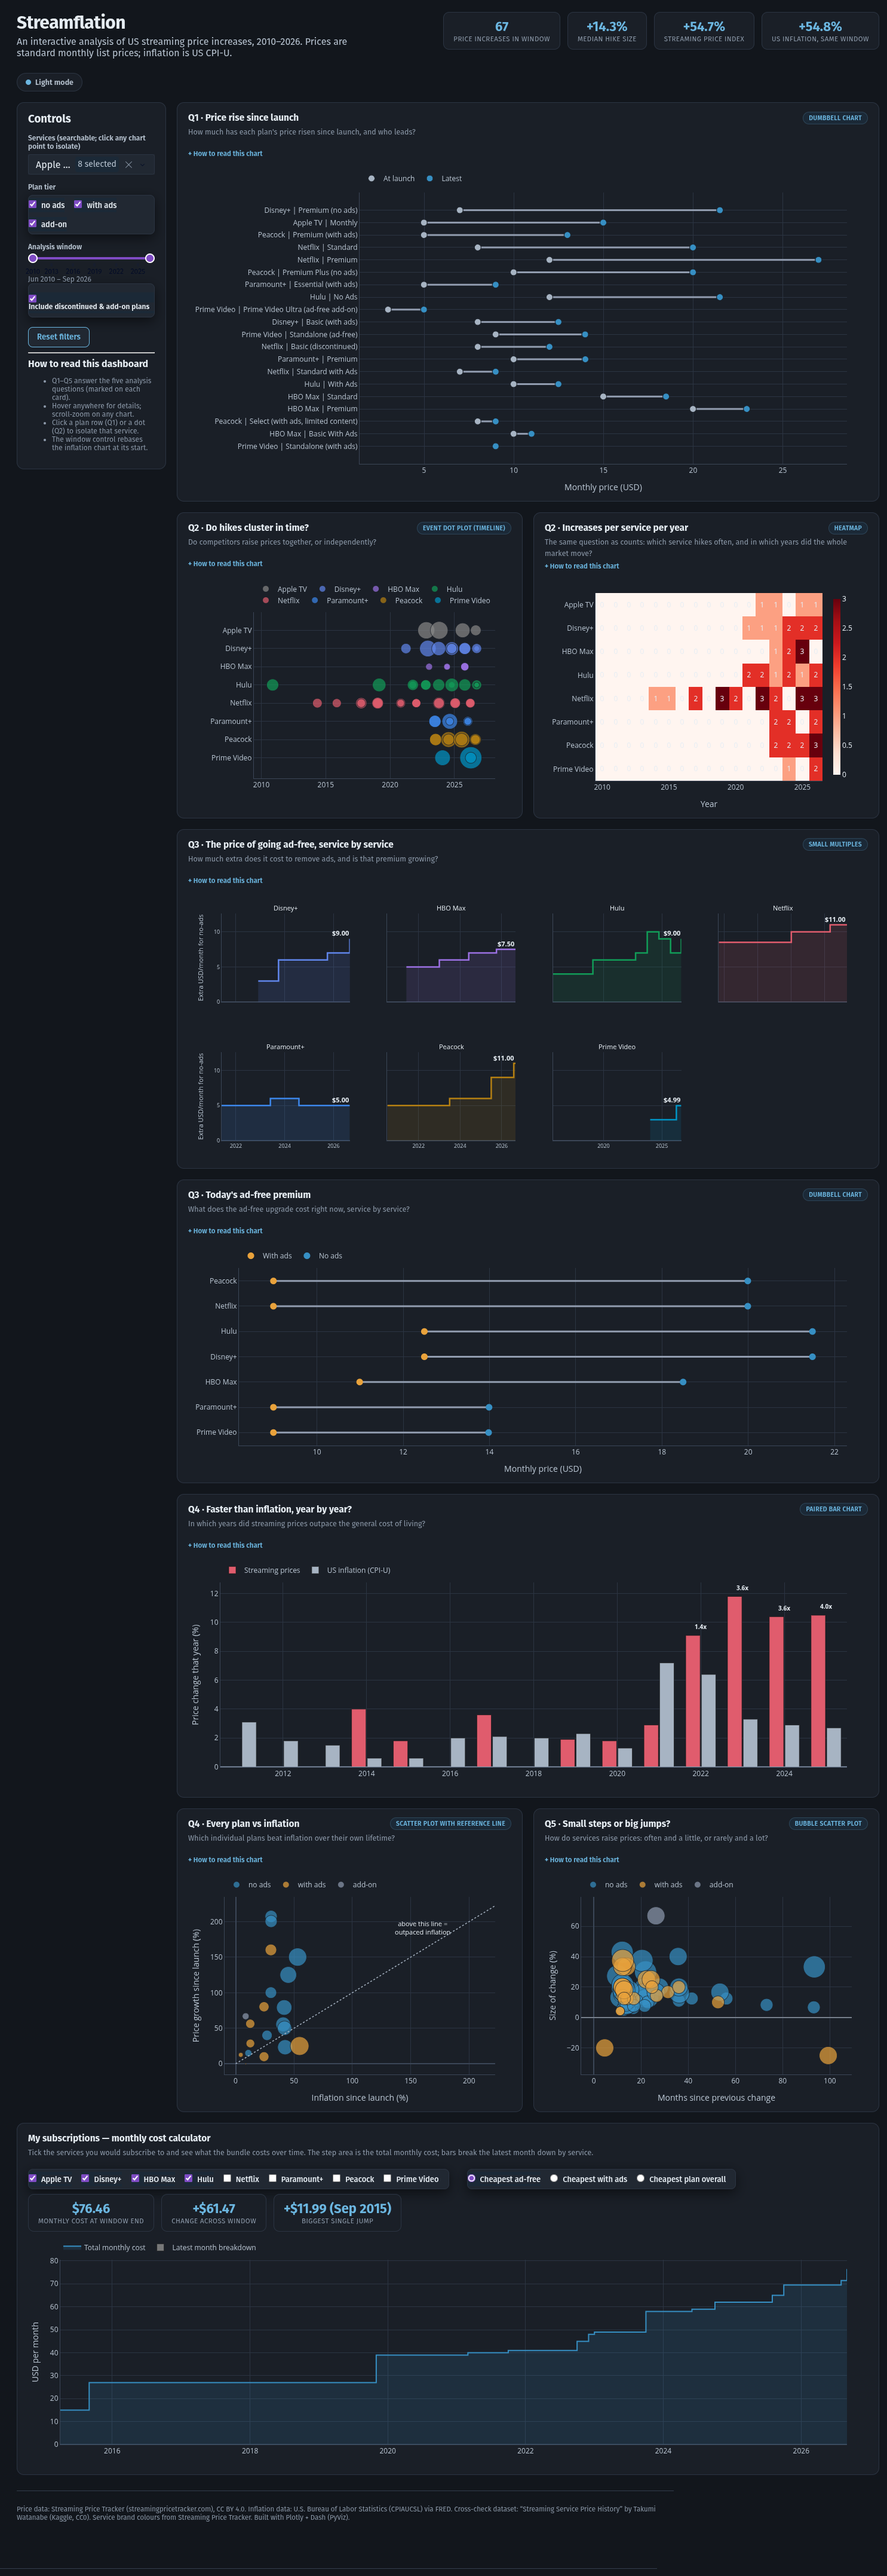
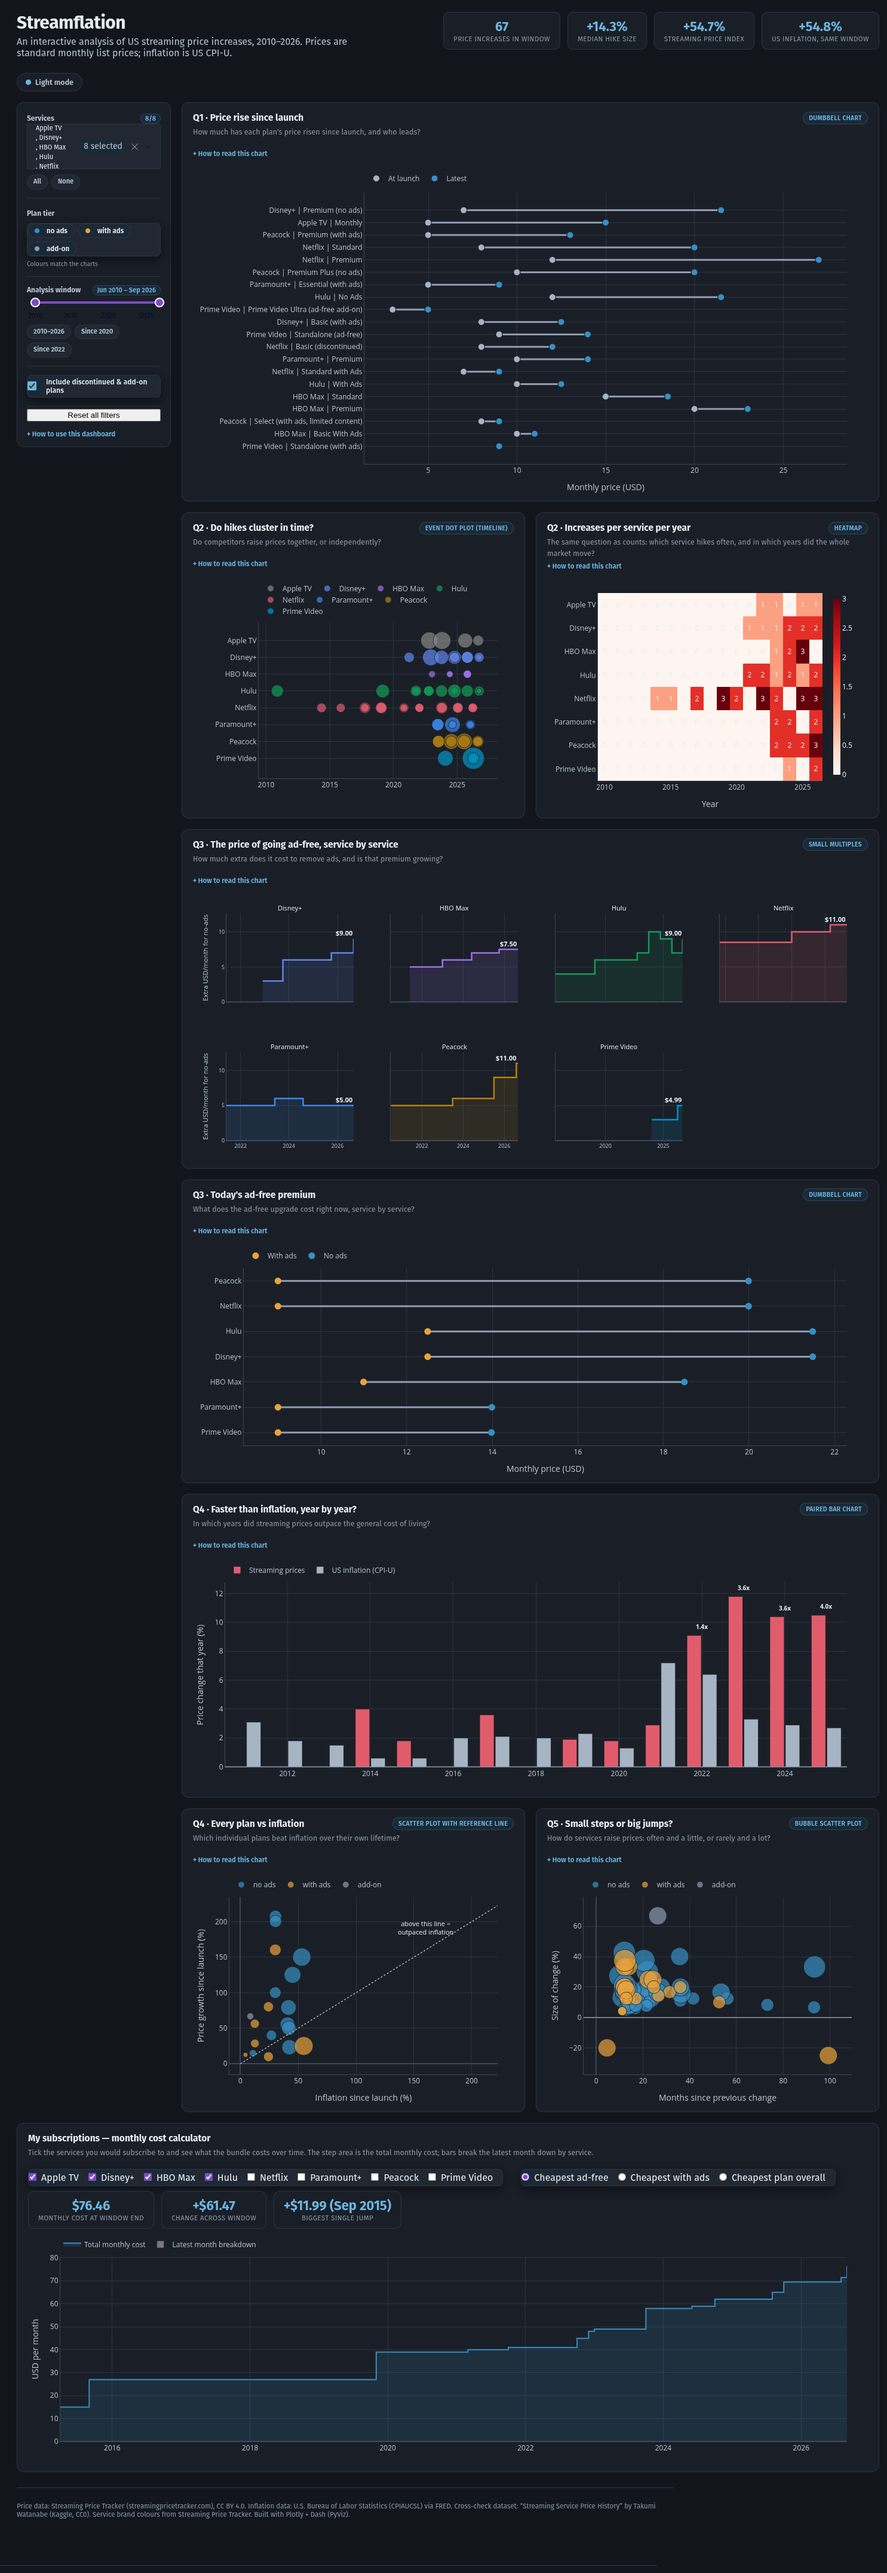
Redesign the control rail
Group the controls into separated fields with real labels, and add the
affordances a filter panel needs:

- live counters: services selected (8/8) and the current window, so state
  is readable without inspecting each widget
- quick actions: All / None for services, and 2010-2026 / Since 2020 /
  Since 2022 window presets, because dragging a 196-month slider to a year
  was fiddly
- tier filters render as chips carrying the same three colours used in the
  charts, so the control explains the encoding instead of duplicating text
- the always-visible help list is now a collapsible summary, reclaiming
  about 100px of rail height
- rail is sticky with its own scroll and the multi-select wraps inside it
  (previously the 8 selected pills overflowed the panel edge)
- slider only labels every 5th year to cut clutter

Also fixed two misleading empty states: the calculator showed the full
basket total when no service was ticked, and the inflation chart drew a
blank panel when no tier was selected. Both now show a message.

diff --git a/app/assets/style.css b/app/assets/style.css
@@ -76,28 +76,95 @@ body {
 /* layout: control rail + question grid */
 .layout { display: flex; gap: 18px; align-items: flex-start; }
 .rail {
-  flex: 0 0 250px; position: sticky; top: 12px;
+  flex: 0 0 258px; position: sticky; top: 12px;
   background: var(--surface); border: 1px solid var(--border);
-  border-radius: 12px; padding: 16px 18px;
+  border-radius: 12px; padding: 4px 16px 14px;
+  max-height: calc(100vh - 24px); overflow-y: auto;
 }
-.rail h3 { margin: 0 0 12px; }
-.rail label {
-  display: block; font-size: 12px; font-weight: 600;
-  margin: 14px 0 6px; color: var(--text-dim);
+.field { padding: 14px 0; border-bottom: 1px solid var(--border); }
+.field:last-of-type { border-bottom: none; padding-bottom: 4px; }
+.field-head {
+  display: flex; align-items: baseline; justify-content: space-between; gap: 8px;
 }
-.rail .Select-control { border-radius: 8px; }
-.tier-checks label {
-  margin: 4px 12px 4px 0; font-size: 13px; font-weight: 500;
+.field label { font-size: 12px; font-weight: 650; color: var(--text-dim); }
+.field-count {
+  font-size: 11px; font-weight: 600; color: var(--accent);
+  background: var(--accent-soft); border: 1px solid var(--accent-border);
+  border-radius: 999px; padding: 1px 7px; white-space: nowrap;
 }
-.muted { color: var(--text-muted); font-size: 12px; }
-.muted ul { padding-left: 16px; margin: 6px 0; }
-.btn {
-  margin-top: 16px; padding: 8px 14px;
-  border: 1px solid var(--accent); border-radius: 8px;
-  background: var(--btn-bg); color: var(--accent);
-  cursor: pointer; font-weight: 600; font-family: inherit;
+.field-count:empty { display: none; }
+.field-hint { font-size: 10.5px; color: var(--text-muted); margin-top: 6px; }
+
+/* Dash 4 multi-select must wrap inside the rail instead of overflowing it */
+.rail .dash-dropdown,
+.rail .dash-dropdown-wrapper,
+.rail .dash-dropdown-grid-container { max-width: 100%; min-width: 0; }
+.rail .dash-dropdown-value {
+  display: flex; flex-wrap: wrap; gap: 3px;
+  max-height: 74px; overflow-y: auto; min-width: 0;
 }
-.btn:hover { background: var(--accent); color: var(--surface); }
+.rail .dash-dropdown-value-item {
+  font-size: 11px; padding: 0 2px; max-width: 100%;
+  overflow: hidden; text-overflow: ellipsis; white-space: nowrap;
+}
+
+/* quick-action chips */
+.quick { display: flex; flex-wrap: wrap; gap: 6px; margin-top: 9px; }
+.chip-btn {
+  font-family: inherit; font-size: 11px; font-weight: 600;
+  color: var(--text-dim); background: var(--surface-2);
+  border: 1px solid var(--border); border-radius: 999px;
+  padding: 3px 10px; cursor: pointer; line-height: 1.5;
+}
+.chip-btn:hover { border-color: var(--accent); color: var(--accent); }
+.chip-btn:active { transform: translateY(1px); }
+
+/* tier chips: same colours as the charts, with a visible selected state */
+.tier-chips { display: flex; flex-wrap: wrap; gap: 6px; margin-top: 8px; }
+.tier-chips label {
+  display: inline-flex; align-items: center; gap: 6px;
+  font-size: 11.5px; font-weight: 600; color: var(--text-dim);
+  background: var(--surface-2); border: 1px solid var(--border);
+  border-radius: 999px; padding: 4px 11px; cursor: pointer;
+  user-select: none; margin: 0; transition: border-color 0.15s, color 0.15s;
+}
+.tier-chips input { display: none; }
+.tier-chips label::before {
+  content: ""; width: 8px; height: 8px; border-radius: 50%;
+  border: 2px solid var(--text-muted); box-sizing: border-box;
+}
+.tier-chips label:has(input:checked) {
+  color: var(--text); border-color: var(--accent);
+  background: var(--accent-soft);
+}
+.tier-chips label:nth-child(1):has(input:checked)::before { background: #368FC3; border-color: #368FC3; }
+.tier-chips label:nth-child(2):has(input:checked)::before { background: #E9A23B; border-color: #E9A23B; }
+.tier-chips label:nth-child(3):has(input:checked)::before { background: #8D99AE; border-color: #8D99AE; }
+
+/* plain checkbox row */
+.switch-row label {
+  display: flex; align-items: center; gap: 8px;
+  font-size: 12px; font-weight: 500; color: var(--text-dim); cursor: pointer;
+}
+.switch-row input { accent-color: var(--accent); width: 15px; height: 15px; cursor: pointer; }
+
+.btn-wide { width: 100%; margin-top: 4px; }
+
+.rail-help { margin-top: 14px; }
+.rail-help summary {
+  cursor: pointer; font-size: 11.5px; font-weight: 600;
+  color: var(--accent); list-style: none; user-select: none;
+}
+.rail-help summary::-webkit-details-marker { display: none; }
+.rail-help summary::before { content: "+ "; font-weight: 700; }
+.rail-help[open] summary::before { content: "− "; }
+.rail-help ul { padding-left: 15px; margin: 8px 0 0; }
+.rail-help li {
+  font-size: 11.5px; color: var(--text-muted); line-height: 1.5; margin-bottom: 4px;
+}
+
+/* window slider */
+.window-slider { margin: 6px 6px 0; }
 
 /* question grid */
 .grid {

diff --git a/app/app.py b/app/app.py
@@ -12,9 +12,9 @@ import dash
 from dash import Input, Output, State, callback, dcc, html, no_update
 import pandas as pd
 
-from figures import (TIER_COLORS, apply_theme, fig_calculator, fig_dumbbell, fig_gap_dumbbell,
-                     fig_gap_lines, fig_growth_vs_inflation, fig_heatmap, fig_hike_scatter,
-                     fig_timeline, fig_yoy_inflation, load_data)
+from figures import (TIER_COLORS, apply_theme, empty_fig, fig_calculator, fig_dumbbell,
+                     fig_gap_dumbbell, fig_gap_lines, fig_growth_vs_inflation, fig_heatmap,
+                     fig_hike_scatter, fig_timeline, fig_yoy_inflation, load_data)
 
 DATA = load_data()
 MONTHS = pd.date_range("2010-06-01", "2026-09-01", freq="MS")
@@ -75,36 +75,71 @@ app.layout = html.Div(className="page", children=[
     html.Div(className="layout", children=[
         # ---------------- control rail ----------------
         html.Div(className="rail", children=[
-            html.H3("Controls"),
-            html.Label("Services (searchable; click any chart point to isolate)"),
-            dcc.Dropdown(id="services", options=ALL_SERVICES, value=ALL_SERVICES,
-                         multi=True, placeholder="All services"),
-            html.Label("Plan tier"),
-            dcc.Checklist(id="tiers",
-                          options=[{"label": f"  {t}", "value": t} for t in ALL_TIERS],
-                          value=ALL_TIERS, inline=True,
-                          className="tier-checks"),
-            html.Label("Analysis window"),
-            dcc.RangeSlider(id="window", min=0, max=len(MONTHS) - 1, step=1,
-                            value=[0, len(MONTHS) - 1],
-                            marks={i: str(y) for i, y in
-                                   enumerate(MONTHS.year) if y % 3 == 0 and (i == 0 or y != MONTHS.year[i - 1])},
-                            tooltip={"placement": "bottom", "always_visible": False}),
-            html.Div(id="window-label", className="muted"),
-            dcc.Checklist(id="advanced",
-                          options=[{"label": " Include discontinued & add-on plans",
-                                    "value": "y"}],
-                          value=["y"]),
-            html.Button("Reset filters", id="reset", n_clicks=0, className="btn"),
-            html.Hr(),
-            html.Div([
-                html.Strong("How to read this dashboard"),
-                html.Ul([
-                    html.Li("Q1–Q5 answer the five analysis questions (marked on each card)."),
-                    html.Li("Hover anywhere for details; scroll-zoom on any chart."),
-                    html.Li("Click a plan row (Q1) or a dot (Q2) to isolate that service."),
-                    html.Li("The window control rebases the inflation chart at its start."),
-                ], className="muted"),
+            # ---- services -------------------------------------------------
+            html.Div(className="field", children=[
+                html.Div(className="field-head", children=[
+                    html.Label("Services", htmlFor="services"),
+                    html.Span(id="services-count", className="field-count"),
+                ]),
+                dcc.Dropdown(id="services", options=ALL_SERVICES, value=ALL_SERVICES,
+                             multi=True, placeholder="All services"),
+                html.Div(className="quick", children=[
+                    html.Button("All", id="svc-all", n_clicks=0, className="chip-btn"),
+                    html.Button("None", id="svc-none", n_clicks=0, className="chip-btn"),
+                ]),
+            ]),
+
+            # ---- tier -----------------------------------------------------
+            html.Div(className="field", children=[
+                html.Label("Plan tier"),
+                dcc.Checklist(
+                    id="tiers",
+                    options=[{"label": t, "value": t} for t in ALL_TIERS],
+                    value=ALL_TIERS, className="tier-chips"),
+                html.Div("Colours match the charts", className="field-hint"),
+            ]),
+
+            # ---- window ---------------------------------------------------
+            html.Div(className="field", children=[
+                html.Div(className="field-head", children=[
+                    html.Label("Analysis window"),
+                    html.Span(id="window-label", className="field-count"),
+                ]),
+                dcc.RangeSlider(
+                    id="window", min=0, max=len(MONTHS) - 1, step=1,
+                    value=[0, len(MONTHS) - 1],
+                    marks={i: str(y) for i, y in enumerate(MONTHS.year)
+                           if y % 5 == 0 and (i == 0 or y != MONTHS.year[i - 1])},
+                    tooltip={"placement": "bottom", "always_visible": False},
+                    className="window-slider"),
+                html.Div(className="quick", children=[
+                    html.Button("2010–2026", id="win-all", n_clicks=0, className="chip-btn"),
+                    html.Button("Since 2020", id="win-2020", n_clicks=0, className="chip-btn"),
+                    html.Button("Since 2022", id="win-2022", n_clicks=0, className="chip-btn"),
+                ]),
+            ]),
+
+            # ---- options --------------------------------------------------
+            html.Div(className="field", children=[
+                dcc.Checklist(
+                    id="advanced",
+                    options=[{"label": "Include discontinued & add-on plans",
+                              "value": "y"}],
+                    value=["y"], className="switch-row"),
+            ]),
+
+            html.Button("Reset all filters", id="reset", n_clicks=0, className="btn btn-wide"),
+
+            html.Div(className="rail-help", children=[
+                html.Details(children=[
+                    html.Summary("How to use this dashboard"),
+                    html.Ul([
+                        html.Li("Q1–Q5 answer the five analysis questions, marked on each card."),
+                        html.Li("Hover any mark for exact values; scroll to zoom."),
+                        html.Li("Click a row in Q1 or a dot in Q2 to isolate that service."),
+                        html.Li("Move the window to re-test any period."),
+                    ]),
+                ], open=False),
             ]),
         ]),
 
@@ -289,7 +324,8 @@ def update_all(services, tiers, window, advanced, theme):
         fig_hike_scatter(ev_w, dark=dark),
         fig_gap_lines(gap_w, DATA["service_colors"], cols=4, dark=dark),
         fig_gap_dumbbell(gap_w, dark=dark),
-        fig_yoy_inflation(DATA["yoy"], dark=dark),
+        fig_yoy_inflation(DATA["yoy"], dark=dark) if tiers else
+        empty_fig("Select at least one plan tier"),
         fig_growth_vs_inflation(summary, monthly, dark=dark),
     ]
     return (kpi1, kpi2, kpi3, kpi4,
@@ -334,6 +370,8 @@ def update_calc(services, mode, window, theme):
     w0, w1 = MONTHS[window[0]], MONTHS[window[1]]
     monthly = DATA["monthly"]
     monthly = monthly[(monthly["month"] >= w0) & (monthly["month"] <= w1)]
+    if not services:
+        return "–", "–", "–", apply_theme(empty_fig("Tick at least one service"), dark)
     fig = apply_theme(fig_calculator(monthly, services, mode, DATA["service_colors"], dark=dark), dark)
 
     # KPI numbers recomputed with the same rules as fig_calculator
@@ -351,6 +389,52 @@ def update_calc(services, mode, window, theme):
     k3 = f"+${jumps.max():.2f} ({biggest:%b %Y})" if biggest is not None else "no jumps in window"
     delta = last - first
     return f"${last:.2f}", f"{'+' if delta >= 0 else '−'}${abs(delta):.2f}", k3, fig
+
+
+# ---------------------------------------------------------------------------
+# Control rail: quick actions + live counters
+# ---------------------------------------------------------------------------
+def _month_index(year: int, month: int = 1) -> int:
+    """Index of the first month on/after year-month, clamped to the data range."""
+    after = MONTHS[MONTHS >= pd.Timestamp(year=year, month=month, day=1)]
+    if len(after) == 0:
+        return len(MONTHS) - 1
+    return int(MONTHS.get_loc(after[0]))
+
+
+@callback(
+    Output("services", "value", allow_duplicate=True),
+    Input("svc-all", "n_clicks"), Input("svc-none", "n_clicks"),
+    prevent_initial_call=True,
+)
+def quick_services(all_clicks, none_clicks):
+    ctx = dash.callback_context
+    if not ctx.triggered:
+        return no_update
+    return ALL_SERVICES if ctx.triggered_id == "svc-all" else []
+
+
+@callback(
+    Output("window", "value", allow_duplicate=True),
+    Input("win-all", "n_clicks"), Input("win-2020", "n_clicks"), Input("win-2022", "n_clicks"),
+    prevent_initial_call=True,
+)
+def quick_window(all_clicks, y2020, y2022):
+    ctx = dash.callback_context
+    if not ctx.triggered:
+        return no_update
+    last = len(MONTHS) - 1
+    return {
+        "win-all": [0, last],
+        "win-2020": [_month_index(2020), last],
+        "win-2022": [_month_index(2022), last],
+    }[ctx.triggered_id]
+
+
+@callback(Output("services-count", "children"), Input("services", "value"))
+def services_count(values):
+    n = len(values or [])
+    return f"{n}/{len(ALL_SERVICES)}"
 
 
 # ---------------------------------------------------------------------------
